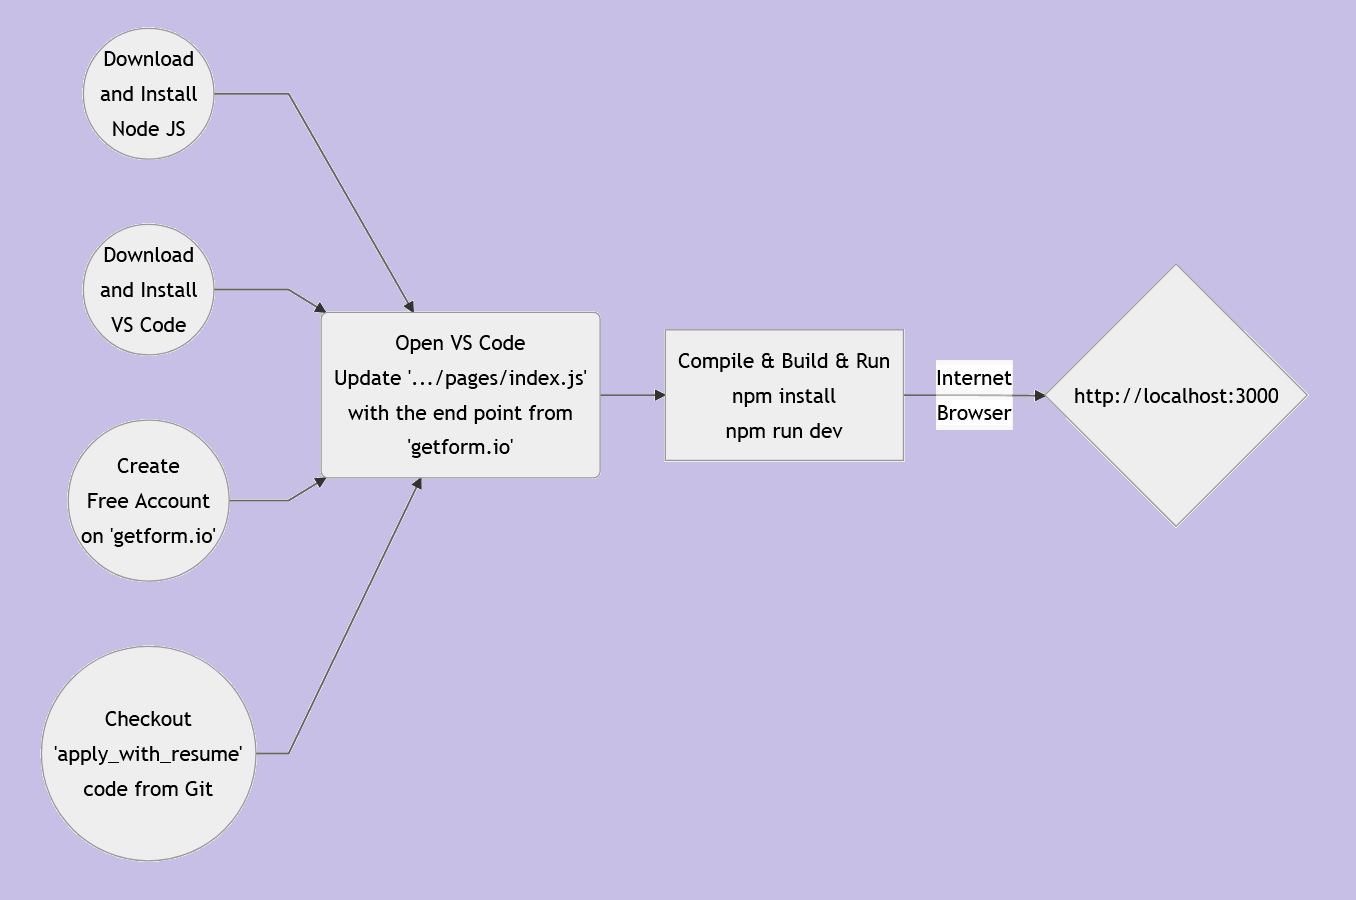
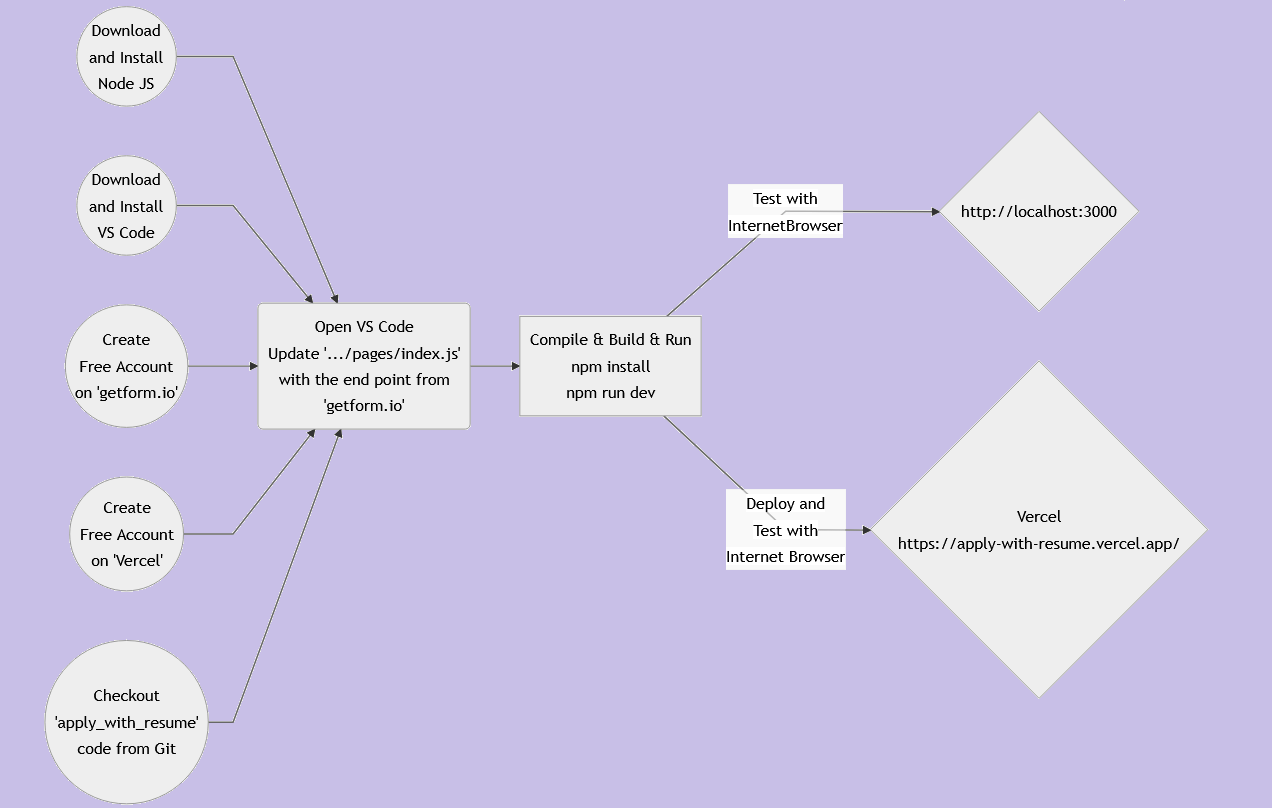
Updated Readme

Changed region(s): [[0.0307, 0.0, 0.9811, 1.0], [0.5519, 0.2166, 0.6745, 0.3094], [0.2146, 0.7426, 0.2453, 0.7735]]

diff --git a/README.md b/README.md
@@ -1,3 +1,4 @@
+
 # Step by Step Tutorial to Create a Simple Web Application to Upload IT Job Skills using Next JS
 
 ### Workflow
@@ -11,41 +12,41 @@ A((Download<br/>and Install<br/>Node JS)) -->
 C(Open VS Code<br/>Update '.../pages/index.js'<br/>with the end point from<br/>'getform.io')
 B((Download<br/>and Install<br/>VS Code)) --> C
 D((Create<br/>Free Account<br/>on 'getform.io')) --> C
-E((Checkout<br/>'apply_with_resume'<br/>code from Git))  --> C
-C --> F[Compile & Build & Run<br/>npm install<br/>npm run dev]
-F -- Internet<br/>Browser --> G{http://localhost:3000}
-
+E((Create<br/>Free Account<br/>on 'Vercel')) --> C
+F((Checkout<br/>'apply_with_resume'<br/>code from Git)) --> C
+C --> G[Compile & Build & Run<br/>npm install<br/>npm run dev]
+G -- Test with<br/>InternetBrowser --> H{http://localhost:3000} 
+G -- Deploy and<br/>Test with<br/>Internet Browser --> I{Vercel<br/>https://apply-with-resume.vercel.app/}
 ```
 </details>
 
 ### Getting Started
+
 <ul>
-<li>Checkout <a href="https://github.com/lalumastan/apply_with_resume.git">this code</a> from Github</li>
-<li>Create a free account on <a href="https://getform.io">getform.io</a></li> 
-<li>Update <code>GETFORM_FORM_ENDPOINT</code> in <code>.../pages.index.js</code> </li>
+<li>Checkout <a  href="https://github.com/lalumastan/apply_with_resume.git">this code</a> from Github</li>
+<li>Create a free account on <a  href="https://getform.io">getform.io</a></li>
+<li>Update <code>GETFORM_FORM_ENDPOINT</code> in <code>.../pages.index.js</code>  </li>
 <li>Compile and build the code using <code>npm install</code></li>
 <li>Run the development server using <code>npm run dev</code></li>
- <li>Open <a href="http://localhost:3000">http://localhost:3000</a> with your browser to see the result.</li>
- <li>You can start editing the page by modifying <code>.../pages/index.js</code>. The page auto-updates as you edit the file.</li>
+<li>Open <a  href="http://localhost:3000">http://localhost:3000</a> with your browser to see the result.</li>
+<li>You can start editing the page by modifying <code>.../pages/index.js</code>. The page auto-updates as you edit the file.</li>
 </ul>
-
 This project uses [`next/font`](https://nextjs.org/docs/basic-features/font-optimization) to automatically optimize and load Inter, a custom Google Font.
 
 ### Deploy on Vercel
-
 The easiest way to deploy your Next.js app is to use the [Vercel Platform](https://vercel.com/new?utm_medium=default-template&filter=next.js&utm_source=create-next-app&utm_campaign=create-next-app-readme) from the creators of Next.js.
 
 Check out our [Next.js deployment documentation](https://nextjs.org/docs/deployment) for more details.
 
 ### References
 <ul>
- <li><a href="https://apply-with-resume.vercel.app/">Live Demo</a></li>
- <li><a href="https://nextjs.org/learn">Interactive Next.js tutorial</a></li>
- <li><a href="https://nextjs.org/docs">Next.js Documentation</a></li>
- <li><a href="https://reactjs.org/">React</a></li> 
- <li><a href="https://vercel.com">Vercel</a></li>
- <li><a href="https://getform.io">Smart  form endpoints  for developer</a></li>
+<li><a  href="https://apply-with-resume.vercel.app/">Live Demo</a></li>
+<li><a  href="https://nextjs.org/learn">Interactive Next.js tutorial</a></li>
+<li><a  href="https://nextjs.org/docs">Next.js Documentation</a></li>
+<li><a  href="https://reactjs.org/">React</a></li>
+<li><a  href="https://vercel.com">Vercel</a></li>
+<li><a  href="https://getform.io">Smart form endpoints for developer</a></li>
 </ul>
 
 ### Tutorial
-<a href="http://www.youtube.com/watch?feature=player_embedded&v=4VXajxGMsmY" target="_blank"><img src="http://img.youtube.com/vi/4VXajxGMsmY/0.jpg" alt="Step by Step Tutorial to Create a Simple Web Application to Upload IT Job Skills using Next JS" width="240" height="180" border="10" /></a>
+<a  href="http://www.youtube.com/watch?feature=player_embedded&v=4VXajxGMsmY"  target="_blank"><img  src="http://img.youtube.com/vi/4VXajxGMsmY/0.jpg"  alt="Step by Step Tutorial to Create a Simple Web Application to Upload IT Job Skills using Next JS"  width="240"  height="180"  border="10"  /></a>
